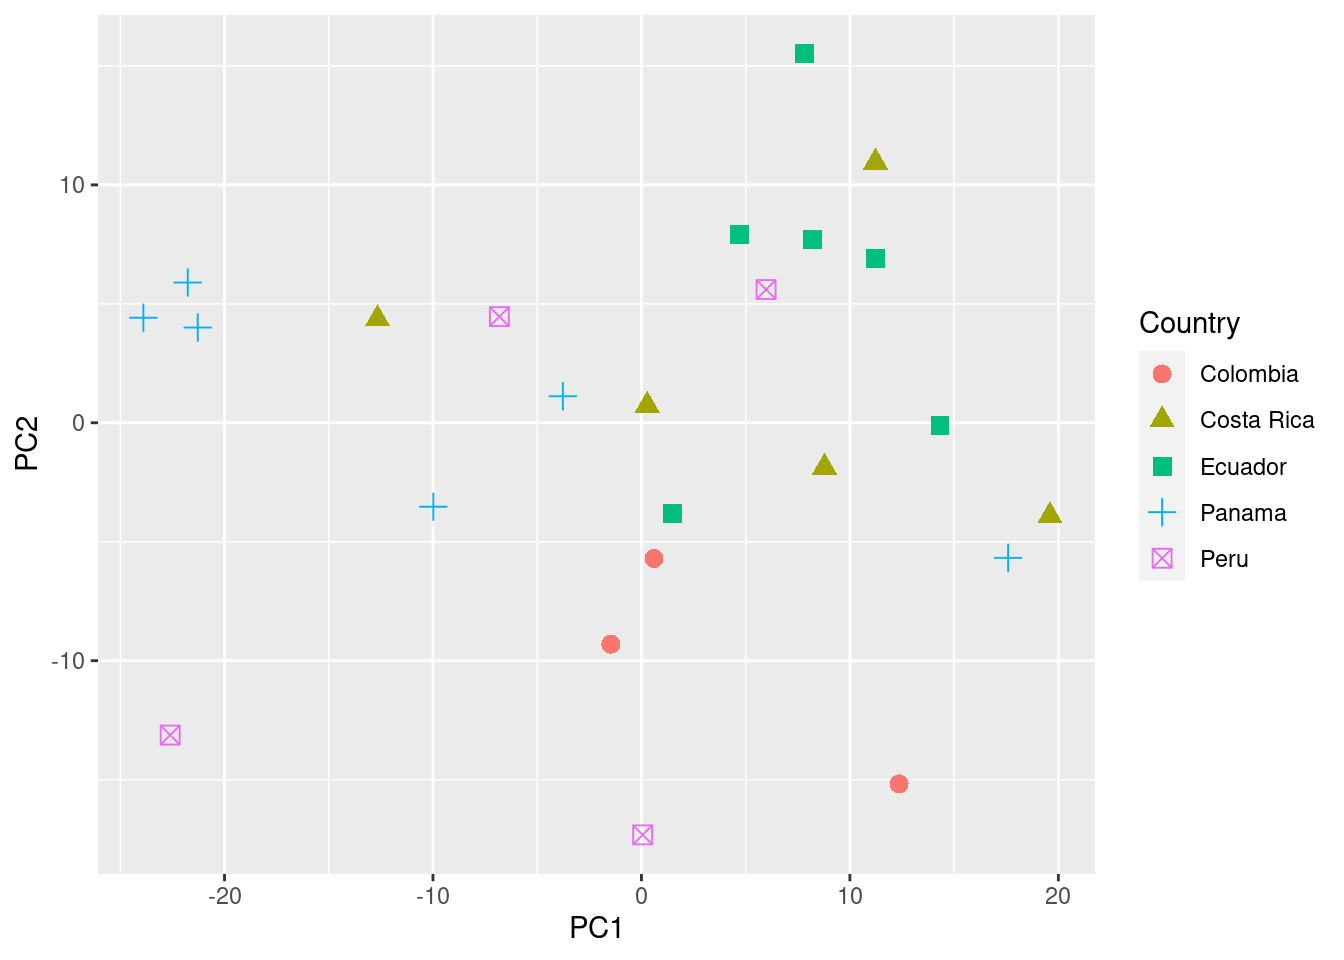
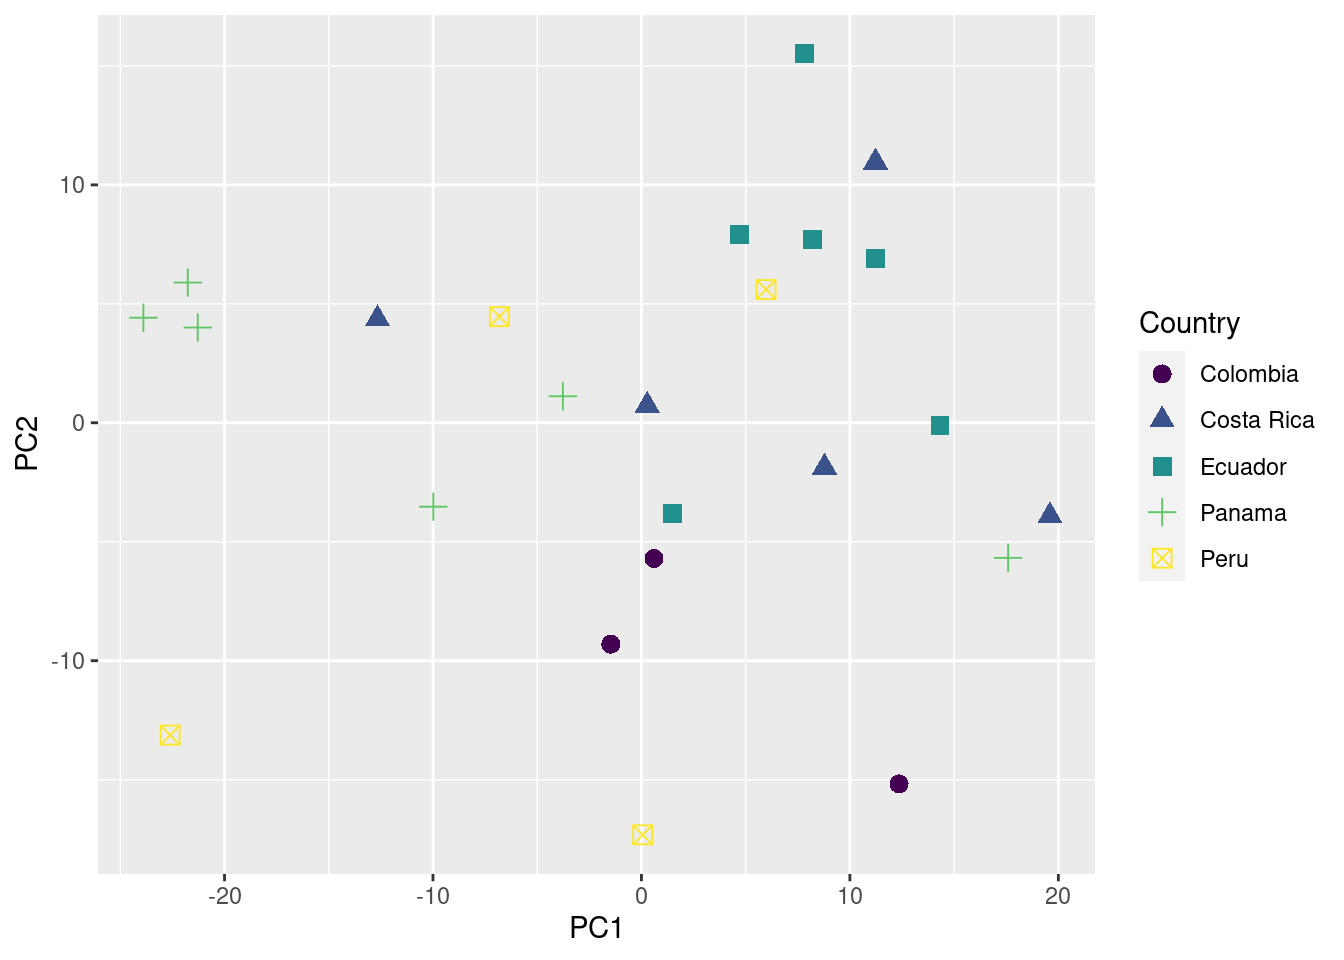
update

diff --git a/docs/measure_structure_green_hermit.html b/docs/measure_structure_green_hermit.html
@@ -440,8 +440,8 @@ song_pg &lt;- song_pg[song_pg$Locality != &quot;Suaita, Santander&quot;, ]</code
 <p> </p>
 <p>Map locations using <a href="https://marce10.github.io/warbleR/reference/map_xc.html"><code>map_xc()</code></a>:</p>
 <pre class="r"><code>map_xc(song_pg, leaflet.map = TRUE)</code></pre>
-<div id="htmlwidget-a2467afe80b9520be39a" style="width:864px;height:480px;" class="leaflet html-widget"></div>
-<script type="application/json" data-for="htmlwidget-a2467afe80b9520be39a">{"x":{"options":{"crs":{"crsClass":"L.CRS.EPSG3857","code":null,"proj4def":null,"projectedBounds":null,"options":{}}},"calls":[{"method":"addTiles","args":["//{s}.tile.openstreetmap.org/{z}/{x}/{y}.png",null,null,{"minZoom":0,"maxZoom":18,"tileSize":256,"subdomains":"abc","errorTileUrl":"","tms":false,"noWrap":false,"zoomOffset":0,"zoomReverse":false,"opacity":1,"zIndex":1,"detectRetina":false,"attribution":"&copy; <a href=\"http://openstreetmap.org\">OpenStreetMap<\/a> contributors, <a href=\"http://creativecommons.org/licenses/by-sa/2.0/\">CC-BY-SA<\/a>"}]},{"method":"addAwesomeMarkers","args":[[5.113,10.3064,8.6001,10.1614,7.998,5.0791,-4.108,-2.42,-5.6708],[-75.9401,-84.8075,-80.1251,-83.9376,-77.7138,-75.6852,-78.964,-78.06,-77.6953],{"icon":"ios-close","markerColor":["white","darkgreen","white","darkgreen","darkgreen","white","darkred","darkred","white"],"iconColor":"black","spin":false,"squareMarker":false,"iconRotate":0,"font":"monospace","prefix":"ion"},null,null,{"interactive":true,"draggable":false,"keyboard":true,"title":"","alt":"","zIndexOffset":0,"opacity":1,"riseOnHover":false,"riseOffset":250},["<b><a href='https://www.xeno-canto.org/687234'>XC687234<\/a><\/b><br/><i>Phaethornis guy<\/i><br/> Subspecies: not provided<br/> Country: Colombia<br/> Locality: Distrito de Manejo Integrado Agua linda - Apía, Risaralda <br/> Voc.type: adult, female, song<br/> Recordist: Fabio Agudelo Zapata<b><a href='https://www.xeno-canto.org/687234/download'><br/>listen<\/a>","<b><a href='https://www.xeno-canto.org/665512'>XC665512<\/a><\/b><br/><i>Phaethornis guy<\/i><br/> Subspecies: coruscus<br/> Country: Costa Rica<br/> Locality: Monteverde, Provincia de Puntarenas<br/> Voc.type: adult, male, song<br/> Recordist: Alexis Bukowski<b><a href='https://www.xeno-canto.org/665512/download'><br/>listen<\/a>","<b><a href='https://www.xeno-canto.org/541543'>XC541543<\/a><\/b><br/><i>Phaethornis guy<\/i><br/> Subspecies: not provided<br/> Country: Panama<br/> Locality: El Valle de Antón, Coclé Province<br/> Voc.type: adult, song<br/> Recordist: Kent Livezey<b><a href='https://www.xeno-canto.org/541543/download'><br/>listen<\/a>","<b><a href='https://www.xeno-canto.org/518285'>XC518285<\/a><\/b><br/><i>Phaethornis guy<\/i><br/> Subspecies: coruscus<br/> Country: Costa Rica<br/> Locality: Braulio Carillo NP, San José<br/> Voc.type: song<br/> Recordist: Hans Matheve<b><a href='https://www.xeno-canto.org/518285/download'><br/>listen<\/a>","<b><a href='https://www.xeno-canto.org/359439'>XC359439<\/a><\/b><br/><i>Phaethornis guy<\/i><br/> Subspecies: coruscus<br/> Country: Panama<br/> Locality: Cerro Pirre (middle)<br/> Voc.type: song<br/> Recordist: Hans Matheve<b><a href='https://www.xeno-canto.org/359439/download'><br/>listen<\/a>","<b><a href='https://www.xeno-canto.org/344329'>XC344329<\/a><\/b><br/><i>Phaethornis guy<\/i><br/> Subspecies: not provided<br/> Country: Colombia<br/> Locality: Hotel Tinamú Birding Nature Reserve<br/> Voc.type: song<br/> Recordist: Hotel Tinamu<b><a href='https://www.xeno-canto.org/344329/download'><br/>listen<\/a>","<b><a href='https://www.xeno-canto.org/257788'>XC257788<\/a><\/b><br/><i>Phaethornis guy<\/i><br/> Subspecies: apicalis<br/> Country: Ecuador<br/> Locality: Zamora-Chinchipe: Río Bombuscaro<br/> Voc.type: song<br/> Recordist: John V. Moore<b><a href='https://www.xeno-canto.org/257788/download'><br/>listen<\/a>","<b><a href='https://www.xeno-canto.org/238804'>XC238804<\/a><\/b><br/><i>Phaethornis guy<\/i><br/> Subspecies: apicalis<br/> Country: Ecuador<br/> Locality: Morona-Santiago: w-slope Cord. de Cutucú<br/> Voc.type: song<br/> Recordist: Niels Krabbe<b><a href='https://www.xeno-canto.org/238804/download'><br/>listen<\/a>","<b><a href='https://www.xeno-canto.org/227574'>XC227574<\/a><\/b><br/><i>Phaethornis guy<\/i><br/> Subspecies: not provided<br/> Country: Peru<br/> Locality: Abra Patricia road, San Martín<br/> Voc.type: song<br/> Recordist: Peter Boesman<b><a href='https://www.xeno-canto.org/227574/download'><br/>listen<\/a>"],null,null,null,["Subsp. not provided","coruscus","Subsp. not provided","coruscus","coruscus","Subsp. not provided","apicalis","apicalis","Subsp. not provided"],{"interactive":false,"permanent":false,"direction":"auto","opacity":1,"offset":[0,0],"textsize":"10px","textOnly":false,"className":"","sticky":true},null]},{"method":"addMiniMap","args":[null,null,"bottomright",150,150,19,19,-5,false,false,false,false,false,false,{"color":"#ff7800","weight":1,"clickable":false},{"color":"#000000","weight":1,"clickable":false,"opacity":0,"fillOpacity":0},{"hideText":"Hide MiniMap","showText":"Show MiniMap"},[]]},{"method":"addEasyButton","args":[{"icon":"fa-globe","title":"Zoom to full view","onClick":"function(btn, map){ map.setZoom(1); }","position":"topleft"}]}],"limits":{"lat":[-5.6708,10.3064],"lng":[-84.8075,-75.6852]}},"evals":["calls.3.args.0.onClick"],"jsHooks":[]}</script>
+<div id="htmlwidget-e936c6a576313f44e1fe" style="width:864px;height:480px;" class="leaflet html-widget"></div>
+<script type="application/json" data-for="htmlwidget-e936c6a576313f44e1fe">{"x":{"options":{"crs":{"crsClass":"L.CRS.EPSG3857","code":null,"proj4def":null,"projectedBounds":null,"options":{}}},"calls":[{"method":"addTiles","args":["//{s}.tile.openstreetmap.org/{z}/{x}/{y}.png",null,null,{"minZoom":0,"maxZoom":18,"tileSize":256,"subdomains":"abc","errorTileUrl":"","tms":false,"noWrap":false,"zoomOffset":0,"zoomReverse":false,"opacity":1,"zIndex":1,"detectRetina":false,"attribution":"&copy; <a href=\"http://openstreetmap.org\">OpenStreetMap<\/a> contributors, <a href=\"http://creativecommons.org/licenses/by-sa/2.0/\">CC-BY-SA<\/a>"}]},{"method":"addAwesomeMarkers","args":[[5.113,10.3064,8.6001,10.1614,7.998,5.0791,-4.108,-2.42,-5.6708],[-75.9401,-84.8075,-80.1251,-83.9376,-77.7138,-75.6852,-78.964,-78.06,-77.6953],{"icon":"ios-close","markerColor":["white","darkgreen","white","darkgreen","darkgreen","white","darkred","darkred","white"],"iconColor":"black","spin":false,"squareMarker":false,"iconRotate":0,"font":"monospace","prefix":"ion"},null,null,{"interactive":true,"draggable":false,"keyboard":true,"title":"","alt":"","zIndexOffset":0,"opacity":1,"riseOnHover":false,"riseOffset":250},["<b><a href='https://www.xeno-canto.org/687234'>XC687234<\/a><\/b><br/><i>Phaethornis guy<\/i><br/> Subspecies: not provided<br/> Country: Colombia<br/> Locality: Distrito de Manejo Integrado Agua linda - Apía, Risaralda <br/> Voc.type: adult, female, song<br/> Recordist: Fabio Agudelo Zapata<b><a href='https://www.xeno-canto.org/687234/download'><br/>listen<\/a>","<b><a href='https://www.xeno-canto.org/665512'>XC665512<\/a><\/b><br/><i>Phaethornis guy<\/i><br/> Subspecies: coruscus<br/> Country: Costa Rica<br/> Locality: Monteverde, Provincia de Puntarenas<br/> Voc.type: adult, male, song<br/> Recordist: Alexis Bukowski<b><a href='https://www.xeno-canto.org/665512/download'><br/>listen<\/a>","<b><a href='https://www.xeno-canto.org/541543'>XC541543<\/a><\/b><br/><i>Phaethornis guy<\/i><br/> Subspecies: not provided<br/> Country: Panama<br/> Locality: El Valle de Antón, Coclé Province<br/> Voc.type: adult, song<br/> Recordist: Kent Livezey<b><a href='https://www.xeno-canto.org/541543/download'><br/>listen<\/a>","<b><a href='https://www.xeno-canto.org/518285'>XC518285<\/a><\/b><br/><i>Phaethornis guy<\/i><br/> Subspecies: coruscus<br/> Country: Costa Rica<br/> Locality: Braulio Carillo NP, San José<br/> Voc.type: song<br/> Recordist: Hans Matheve<b><a href='https://www.xeno-canto.org/518285/download'><br/>listen<\/a>","<b><a href='https://www.xeno-canto.org/359439'>XC359439<\/a><\/b><br/><i>Phaethornis guy<\/i><br/> Subspecies: coruscus<br/> Country: Panama<br/> Locality: Cerro Pirre (middle)<br/> Voc.type: song<br/> Recordist: Hans Matheve<b><a href='https://www.xeno-canto.org/359439/download'><br/>listen<\/a>","<b><a href='https://www.xeno-canto.org/344329'>XC344329<\/a><\/b><br/><i>Phaethornis guy<\/i><br/> Subspecies: not provided<br/> Country: Colombia<br/> Locality: Hotel Tinamú Birding Nature Reserve<br/> Voc.type: song<br/> Recordist: Hotel Tinamu<b><a href='https://www.xeno-canto.org/344329/download'><br/>listen<\/a>","<b><a href='https://www.xeno-canto.org/257788'>XC257788<\/a><\/b><br/><i>Phaethornis guy<\/i><br/> Subspecies: apicalis<br/> Country: Ecuador<br/> Locality: Zamora-Chinchipe: Río Bombuscaro<br/> Voc.type: song<br/> Recordist: John V. Moore<b><a href='https://www.xeno-canto.org/257788/download'><br/>listen<\/a>","<b><a href='https://www.xeno-canto.org/238804'>XC238804<\/a><\/b><br/><i>Phaethornis guy<\/i><br/> Subspecies: apicalis<br/> Country: Ecuador<br/> Locality: Morona-Santiago: w-slope Cord. de Cutucú<br/> Voc.type: song<br/> Recordist: Niels Krabbe<b><a href='https://www.xeno-canto.org/238804/download'><br/>listen<\/a>","<b><a href='https://www.xeno-canto.org/227574'>XC227574<\/a><\/b><br/><i>Phaethornis guy<\/i><br/> Subspecies: not provided<br/> Country: Peru<br/> Locality: Abra Patricia road, San Martín<br/> Voc.type: song<br/> Recordist: Peter Boesman<b><a href='https://www.xeno-canto.org/227574/download'><br/>listen<\/a>"],null,null,null,["Subsp. not provided","coruscus","Subsp. not provided","coruscus","coruscus","Subsp. not provided","apicalis","apicalis","Subsp. not provided"],{"interactive":false,"permanent":false,"direction":"auto","opacity":1,"offset":[0,0],"textsize":"10px","textOnly":false,"className":"","sticky":true},null]},{"method":"addMiniMap","args":[null,null,"bottomright",150,150,19,19,-5,false,false,false,false,false,false,{"color":"#ff7800","weight":1,"clickable":false},{"color":"#000000","weight":1,"clickable":false,"opacity":0,"fillOpacity":0},{"hideText":"Hide MiniMap","showText":"Show MiniMap"},[]]},{"method":"addEasyButton","args":[{"icon":"fa-globe","title":"Zoom to full view","onClick":"function(btn, map){ map.setZoom(1); }","position":"topleft"}]}],"limits":{"lat":[-5.6708,10.3064],"lng":[-84.8075,-75.6852]}},"evals":["calls.3.args.0.onClick"],"jsHooks":[]}</script>
 <p> </p>
 <p>Once you feel fine with the subset of data you can go ahead and download the sound files and save the metadata as a .csv file:</p>
 <pre class="r"><code>query_xc(X = song_pg, path = &quot;./examples/p_guy&quot;, parallel = 3)
@@ -642,12 +642,23 @@ pca_data_md &lt;- merge(pca_data, song_pg[, c(&quot;sound.files&quot;, &quot;Cou
 <pre class="r"><code># install.packages(&quot;ggplot2&quot;)
 library(ggplot2)
 
-# plot
+# install.packages(&quot;viridis&quot;)
+library(viridis)</code></pre>
+<pre><code>## Loading required package: viridisLite</code></pre>
+<pre class="r"><code># plot
 ggplot(data = pca_data_md, aes(x = PC1, y = PC2, color = Country, shape = Country)) +
-  geom_point(size = 3)</code></pre>
+  geom_point(size = 3) + 
+  scale_color_viridis_d()</code></pre>
 <p><img src="measure_structure_green_hermit_files/figure-html/unnamed-chunk-17-1.png" width="672" /></p>
 <p> </p>
-<p>We can even test if geographic distance is associated to acoustic distance (i.e. if individuals geographically closer produce more similar songs) using a mantel test (<code>mantel</code> from the package vegan):</p>
+<p>You can also add information about their geographic location (in this case longitude) as follows:</p>
+<pre class="r"><code># plot
+ggplot(data = pca_data_md, aes(x = PC1, y = PC2, color = Longitude, shape = Country)) +
+  geom_point(size = 3) +
+  scale_color_viridis_c()</code></pre>
+<p><img src="measure_structure_green_hermit_files/figure-html/unnamed-chunk-18-1.png" width="672" /></p>
+<p> </p>
+<p>We can even test if geographic distance is associated to acoustic distance (i.e. if individuals geographically closer produce more similar songs) using a <a href="https://en.wikipedia.org/wiki/Mantel_test">mantel test</a> (<code>mantel</code> function from the package vegan):</p>
 <pre class="r"><code># create geographic and acoustic distance matrices
 geo_dist &lt;- dist(pca_data_md[, c(&quot;Latitude&quot;, &quot;Longitude&quot;)])
 acoust_dist &lt;- dist(pca_data_md[, c(&quot;PC1&quot;, &quot;PC2&quot;)])
@@ -664,15 +675,15 @@ mantel(geo_dist, acoust_dist)</code></pre>
 ## mantel(xdis = geo_dist, ydis = acoust_dist) 
 ## 
 ## Mantel statistic r: 0.02928 
-##       Significance: 0.27 
+##       Significance: 0.259 
 ## 
 ## Upper quantiles of permutations (null model):
 ##    90%    95%  97.5%    99% 
-## 0.0720 0.0951 0.1359 0.1810 
+## 0.0743 0.1035 0.1310 0.1493 
 ## Permutation: free
 ## Number of permutations: 999</code></pre>
 <p> </p>
-<p>In this example no assocation between geographic and acoustic distance was detected (p value &lt; 0.05).</p>
+<p>In this example no association between geographic and acoustic distance was detected (p value &gt; 0.05).</p>
 <hr />
 <p><font size="4">Session information</font></p>
 <pre><code>## R version 4.1.1 (2021-08-10)
@@ -695,9 +706,9 @@ mantel(geo_dist, acoust_dist)</code></pre>
 ## [1] stats     graphics  grDevices utils     datasets  methods   base     
 ## 
 ## other attached packages:
-##  [1] vegan_2.5-7        lattice_0.20-44    permute_0.9-5      ggplot2_3.3.5     
-##  [5] readxl_1.3.1       warbleR_1.1.27     NatureSounds_1.0.4 knitr_1.37        
-##  [9] seewave_2.2.0      tuneR_1.3.3.1     
+##  [1] vegan_2.5-7        lattice_0.20-44    permute_0.9-5      viridis_0.6.2     
+##  [5] viridisLite_0.4.0  ggplot2_3.3.5      readxl_1.3.1       warbleR_1.1.27    
+##  [9] NatureSounds_1.0.4 knitr_1.37         seewave_2.2.0      tuneR_1.3.3.1     
 ## 
 ## loaded via a namespace (and not attached):
 ##  [1] Rcpp_1.0.8        fftw_1.0-6.1      assertthat_0.2.1  digest_0.6.29    
@@ -707,16 +718,17 @@ mantel(geo_dist, acoust_dist)</code></pre>
 ## [17] splines_4.1.1     labeling_0.4.2    stringr_1.4.0     htmlwidgets_1.5.3
 ## [21] RCurl_1.98-1.6    munsell_0.5.0     proxy_0.4-26      compiler_4.1.1   
 ## [25] xfun_0.30         pkgconfig_2.0.3   mgcv_1.8-36       htmltools_0.5.2  
-## [29] tidyselect_1.1.1  tibble_3.1.6      dtw_1.22-3        fansi_1.0.2      
-## [33] crayon_1.5.0      dplyr_1.0.7       withr_2.5.0       shinyBS_0.61     
-## [37] MASS_7.3-54       bitops_1.0-7      grid_4.1.1        nlme_3.1-152     
-## [41] jsonlite_1.7.2    gtable_0.3.0      lifecycle_1.0.1   DBI_1.1.1        
-## [45] magrittr_2.0.2    scales_1.1.1      cli_3.2.0         stringi_1.7.6    
-## [49] pbapply_1.5-0     farver_2.1.0      leaflet_2.0.4.1   bslib_0.2.5.1    
-## [53] ellipsis_0.3.2    vctrs_0.3.8       generics_0.1.0    rjson_0.2.21     
-## [57] tools_4.1.1       glue_1.6.2        purrr_0.3.4       maps_3.3.0       
-## [61] crosstalk_1.1.1   parallel_4.1.1    fastmap_1.1.0     yaml_2.3.5       
-## [65] colorspace_2.0-3  cluster_2.1.2     soundgen_2.2.0    sass_0.4.0</code></pre>
+## [29] tidyselect_1.1.1  gridExtra_2.3     tibble_3.1.6      dtw_1.22-3       
+## [33] fansi_1.0.2       crayon_1.5.0      dplyr_1.0.7       withr_2.5.0      
+## [37] shinyBS_0.61      MASS_7.3-54       bitops_1.0-7      grid_4.1.1       
+## [41] nlme_3.1-152      jsonlite_1.7.2    gtable_0.3.0      lifecycle_1.0.1  
+## [45] DBI_1.1.1         magrittr_2.0.2    scales_1.1.1      cli_3.2.0        
+## [49] stringi_1.7.6     pbapply_1.5-0     farver_2.1.0      leaflet_2.0.4.1  
+## [53] bslib_0.2.5.1     ellipsis_0.3.2    vctrs_0.3.8       generics_0.1.0   
+## [57] rjson_0.2.21      tools_4.1.1       glue_1.6.2        purrr_0.3.4      
+## [61] maps_3.3.0        crosstalk_1.1.1   parallel_4.1.1    fastmap_1.1.0    
+## [65] yaml_2.3.5        colorspace_2.0-3  cluster_2.1.2     soundgen_2.2.0   
+## [69] sass_0.4.0</code></pre>
 </div>
 
 
